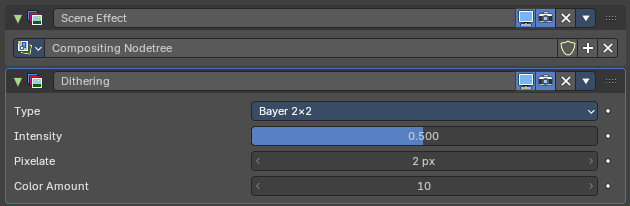
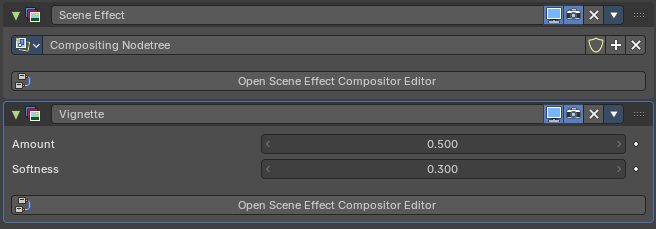
Docs 2.0: Compositor tab, Open Scene Effect Compositor Editor button (#1836)

diff --git a/docs2/content/editors/properties/compositor-properties-tab.md b/docs2/content/editors/properties/compositor-properties-tab.md
@@ -18,7 +18,7 @@ order: 45
 
 The **Compositor** tab holds the **scene effects** of the scene. A scene effect is a compositor node group that works on the rendered picture, for example to add a vignette, film grain or a color look. The effects form a stack, like the modifiers of an object: they work from top to bottom, and each effect gets the result of the one above it.
 
-So you can build up a look from ready-made effects and tweak them here with a few values, without opening the Compositor editor at all. When you need more, each effect is a normal node group that you can open and change in the Compositor.
+So you can build up a look from ready-made effects and tweak them here with a few values, without opening the Compositor editor at all. When you need more, each effect is a normal node group that you can open and change in the Compositor, with the **Open Scene Effect Compositor Editor** button.
 
 In a new file the stack has one effect, **Scene Effect**, that uses the **Compositing Nodetree** of the scene.
 
@@ -44,9 +44,9 @@ Adds an empty effect with a node group selector, so you can pick a node group of
 
 ## Scene effects
 
-![Two scene effects: the default Scene Effect with its node group selector, and Dithering with its inputs](/docs2/images/editors/properties/compositor-properties-tab/compositor-tab-effects.png)
+![Two scene effects: the default Scene Effect with its node group selector, and Vignette with its inputs](/docs2/images/editors/properties/compositor-properties-tab/compositor-tab-effects.png)
 
-Each effect is a panel in the stack. Its header holds the buttons, and the panel shows the **inputs** of the node group as properties, like the Geometry Nodes modifier does. In the picture, the Dithering effect shows its Type, Intensity, Pixelate and Color Amount inputs. Inputs that the node group doesn't use with the current settings are hidden or greyed out.
+Each effect is a panel in the stack. Its header holds the buttons, and the panel shows the **inputs** of the node group as properties, like the Geometry Nodes modifier does. At the bottom, the **Open Scene Effect Compositor Editor** button opens the node group in the Compositor. In the picture, the Vignette effect shows its Amount and Softness inputs. Inputs that the node group doesn't use with the current settings are hidden or greyed out.
 
 ### Header
 
@@ -105,6 +105,12 @@ Drag the grip at the right end of the header to move the effect up or down in th
 ### Node group selector
 
 The row with the node group of the effect, when it shows. Pick another node group from the list, keep it with the fake user (shield), make a new one with **+**, or unlink it with **X**.
+
+### Open Scene Effect Compositor Editor
+
+The button at the bottom of the panel opens a **Compositor** editor in a new window, with the node group of this effect loaded. Use it when the inputs in the panel are not enough and you want to change the nodes of the effect itself. The button shows only when the effect has a node group.
+
+The window is a temporary Compositor editor. Close it when you are done; the effect keeps your changes. The button does not add a step to the undo history.
 
 ## Order of the effects
 
